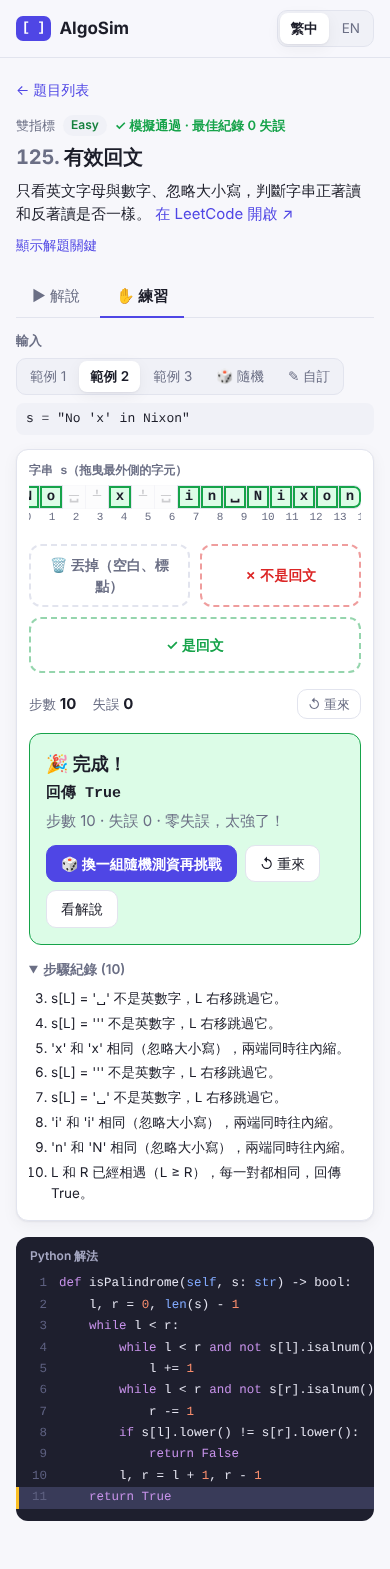
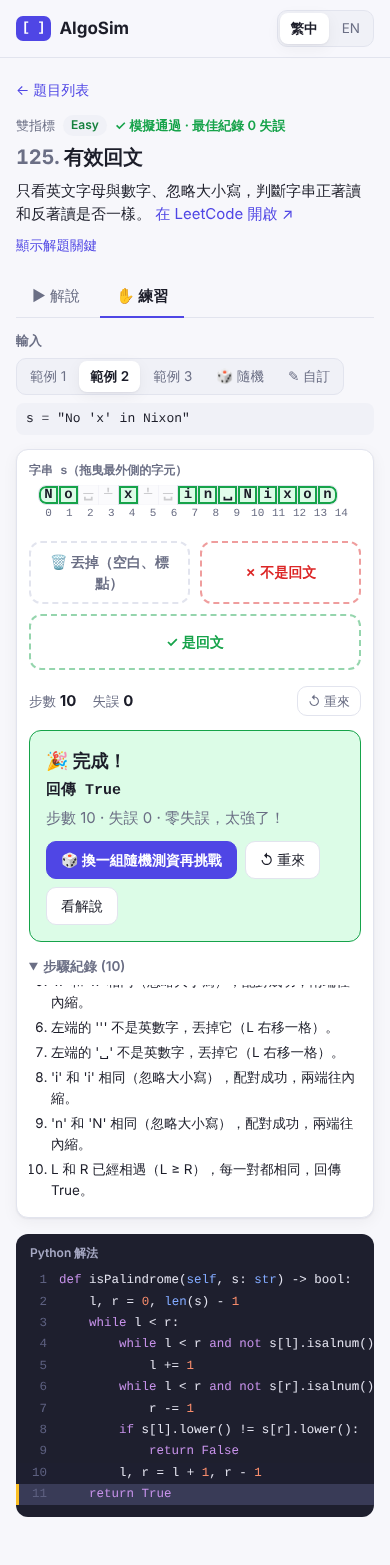
Stack category fully drag & drop: Valid Parentheses and Evaluate RPN
- Stack items can be drop targets (pair a closing bracket with the top)
- RPN operators split into two pops (b then a) via a formula box,
  so operand order is practiced explicitly
- Zones render at the bottom of the scene

Claude-Session: https://claude.ai/code/session_018DHoHmKFiQXG2SpKSffU6C

diff --git a/src/problems/evalRPN.ts b/src/problems/evalRPN.ts
@@ -1,9 +1,10 @@
 import { pick, randInt } from '../core/engine';
-import { L, type Problem } from '../core/types';
+import { L, TAP, type CellMark, type Layer, type Problem } from '../core/types';
 import { err, isObj } from './helpers';
 
 type I = { tokens: string[] };
-type S = { tokens: string[]; i: number; stack: number[]; done: boolean };
+/** b = right operand (popped first), a = left operand (popped second). */
+type S = { tokens: string[]; i: number; stack: number[]; done: boolean; b: number | null };
 
 const OPS = ['+', '-', '*', '/'];
 const isOp = (t: string) => OPS.includes(t);
@@ -34,8 +35,6 @@ function genTree(depth: number): Node {
   return { op, l, r };
 }
 
-/** Stack top first: b = top, a = second. */
-const operands = (stack: number[]) => ({ a: stack[stack.length - 2], b: stack[stack.length - 1] });
 
 export const evalRPN: Problem<I, S> = {
   id: 'evaluate-reverse-polish-notation',
@@ -90,78 +89,137 @@ export const evalRPN: Problem<I, S> = {
   },
   formatInput: (i) => `tokens = [${i.tokens.map((t) => JSON.stringify(t)).join(', ')}]`,
 
-  init: ({ tokens }) => ({ tokens, i: 0, stack: [], done: false }),
+  init: ({ tokens }) => ({ tokens, i: 0, stack: [], done: false, b: null }),
   isDone: (st) => st.done,
   options: () => [
     { id: 'push', label: L('數字放進堆疊（push）', 'Push the number') },
-    { id: 'compute', label: L('彈出兩個，算「次頂 ○ 頂端」', 'Pop two, compute second ○ top') },
-    { id: 'computeRev', label: L('彈出兩個，算「頂端 ○ 次頂」', 'Pop two, compute top ○ second') },
-    { id: 'return', label: L('回傳堆疊中的結果', 'Return the result') },
+    { id: 'takeB', label: L('pop 頂端 → 右邊的 b', 'Pop top → right operand b') },
+    { id: 'takeA', label: L('pop 頂端 → 左邊的 a，計算', 'Pop top → left operand a, compute') },
+    { id: 'return', label: L('回傳結果', 'Return the result') },
   ],
-  correct({ tokens, i, stack }) {
+  correct({ tokens, i, b }) {
     if (i >= tokens.length) return ['return'];
-    const t = tokens[i];
-    if (!isOp(t)) return ['push'];
-    const { a, b } = operands(stack);
-    return calc(a, t, b) === calc(b, t, a) ? ['compute', 'computeRev'] : ['compute'];
+    if (!isOp(tokens[i])) return ['push'];
+    return b === null ? ['takeB'] : ['takeA'];
   },
   apply(st, act) {
     const t = st.tokens[st.i];
     if (act === 'push') return { ...st, stack: [...st.stack, parseInt(t, 10)], i: st.i + 1 };
     if (act === 'return') return { ...st, done: true };
-    const { a, b } = operands(st.stack);
-    const v = act === 'compute' ? calc(a, t, b) : calc(b, t, a);
-    return { ...st, stack: [...st.stack.slice(0, -2), v], i: st.i + 1 };
+    const top = st.stack[st.stack.length - 1];
+    const rest = st.stack.slice(0, -1);
+    if (act === 'takeB') return { ...st, stack: rest, b: top };
+    return { ...st, stack: [...rest, calc(top, t, st.b!)], b: null, i: st.i + 1 };
   },
-  explain({ tokens, i, stack }, act) {
+  explain({ tokens, i, stack, b }, act) {
     const t = tokens[i];
+    const top = stack[stack.length - 1];
     if (act === 'push') return L(`'${t}' 是數字，放進堆疊。`, `'${t}' is a number. Push it.`);
     if (act === 'return')
       return L(`所有 token 都處理完了，堆疊裡只剩 ${stack[0]}，就是答案。`, `All tokens are processed. Only ${stack[0]} is left on the stack, and that's the answer.`);
-    const { a, b } = operands(stack);
+    if (act === 'takeB')
+      return L(`遇到 '${t}'：先 pop 出頂端的 ${top}，它是右邊的運算元 b。`, `Operator '${t}': the first pop gives ${top}, the right operand b.`);
     return L(
-      `遇到 '${t}'：先彈出 b = ${b}（頂端），再彈出 a = ${a}，算 ${a} ${t} ${b} = ${calc(a, t, b)}，放回堆疊。`,
-      `Operator '${t}': pop b = ${b} (top), then a = ${a}. Compute ${a} ${t} ${b} = ${calc(a, t, b)} and push it.`,
+      `再 pop 出 ${top}，它是左邊的運算元 a。計算 ${top} ${t} ${b} = ${calc(top, t, b!)}，結果放回堆疊。`,
+      `The second pop gives ${top}, the left operand a. Compute ${top} ${t} ${b} = ${calc(top, t, b!)} and push the result.`,
     );
   },
-  whyWrong({ tokens, i, stack }, act) {
+  whyWrong({ tokens, i, b }, act) {
     if (i >= tokens.length) return L('所有 token 都處理完了。', 'All tokens have been processed.');
     const t = tokens[i];
     if (act === 'return') return L('還有 token 沒處理。', 'There are still tokens left.');
     if (!isOp(t)) return L(`'${t}' 是數字，直接放進堆疊。`, `'${t}' is a number. Just push it.`);
     if (act === 'push') return L(`'${t}' 是運算子，不是數字。`, `'${t}' is an operator, not a number.`);
-    const { a, b } = operands(stack);
-    return L(
-      `順序反了！先彈出的 ${b} 是右邊的運算元。應該是 ${a} ${t} ${b} = ${calc(a, t, b)}，不是 ${b} ${t} ${a}。`,
-      `Wrong order! The first pop (${b}) is the right operand. It is ${a} ${t} ${b} = ${calc(a, t, b)}, not ${b} ${t} ${a}.`,
-    );
+    if (act === 'takeA') return L('先 pop 出來的是右邊的 b，要先放 b。', 'The first pop is the right operand b. Fill b first.');
+    return L(`b 已經是 ${b} 了，這次 pop 出來的是左邊的 a。`, `b is already ${b}; this pop is the left operand a.`);
   },
-  hints: ({ tokens, i, stack }) => [
+  hints: ({ tokens, i, stack, b }) => [
     i >= tokens.length
       ? L('token 都處理完了嗎？', 'Have all tokens been processed?')
-      : L(`現在的 token '${tokens[i]}' 是數字還是運算子？`, `Is the current token '${tokens[i]}' a number or an operator?`),
-    L(
-      '遇到運算子時：先彈出的是右邊的運算元，例如 [5, 2] 遇到 - 是 5 - 2。',
-      'For an operator, the first pop is the right operand: [5, 2] with - means 5 - 2.',
-    ),
-    L(`堆疊：[${stack.join(', ')}]`, `Stack: [${stack.join(', ')}]`),
+      : isOp(tokens[i])
+        ? L('遇到運算子：先 pop 出來的是右邊的 b，再 pop 出來的是左邊的 a。例如 [5, 2] 遇到 - 是 5 - 2。', 'For an operator, the first pop is the right operand b, the second is the left operand a: [5, 2] with - means 5 - 2.')
+        : L(`現在的 token '${tokens[i]}' 是數字還是運算子？`, `Is the current token '${tokens[i]}' a number or an operator?`),
+    b !== null
+      ? L(`b = ${b} 已經放好，堆疊頂端是 ${stack[stack.length - 1]}。`, `b = ${b} is set; the stack top is ${stack[stack.length - 1]}.`)
+      : L(`堆疊：[${stack.join(', ')}]`, `Stack: [${stack.join(', ')}]`),
   ],
-  scene({ tokens, i, stack, done }) {
-    const marks: Record<number, 'focus' | 'done'> = {};
+  scene({ tokens, i, stack, done, b }): Layer[] {
+    const marks: Record<number, CellMark> = {};
     for (let k = 0; k < Math.min(i, tokens.length); k++) marks[k] = 'done';
     if (i < tokens.length) marks[i] = 'focus';
+    const op = i < tokens.length && isOp(tokens[i]) ? tokens[i] : null;
+    const live = tokens.map((t, k) => !done && k >= i && !isOp(t));
     return [
-      { kind: 'array', id: 'tokens', label: L('tokens', 'tokens'), values: tokens, pointers: [{ name: 'i', index: i, color: 'a' }], marks },
-      { kind: 'stack', id: 'stack', label: L('stack', 'stack'), items: stack },
+      { kind: 'array', id: 'tokens', label: L('tokens（由左往右處理）', 'tokens (left to right)'), values: tokens, pointers: done ? [] : [{ name: 'i', index: i, color: 'a' }], marks, dragPrefix: 't', dragMask: live },
       {
-        kind: 'vars',
-        id: 'v',
-        vars: [
-          { name: 'c', value: i < tokens.length ? tokens[i] : '—', highlight: true },
-          { name: 'return', value: done ? stack[0] : '—' },
-        ],
+        kind: 'stack',
+        id: 'stack',
+        label: L('stack', 'stack'),
+        items: stack,
+        dragPrefix: done ? undefined : 'k',
+        dropId: done ? undefined : 'stack',
+      },
+      ...(op
+        ? [
+            {
+              kind: 'array',
+              id: 'calc',
+              label: L('運算：a ○ b（把 stack 頂端拖進空格）', 'Compute a ○ b (drag the stack top into a slot)'),
+              values: ['a', op, b === null ? 'b' : b],
+              dropPrefix: 'slot',
+              dropMask: [true, false, true],
+              marks: (b !== null ? { 1: 'focus', 2: 'good' } : { 1: 'focus' }) as Record<number, CellMark>,
+            } satisfies Layer,
+          ]
+        : []),
+      {
+        kind: 'zones',
+        id: 'zones',
+        zones: [{ id: 'ans', label: L('✓ 這就是答案', "✓ That's the answer"), tone: 'good' }],
       },
     ];
+  },
+  drag: {
+    instructions: L(
+      '數字拖進 stack。遇到運算子時，把 stack 頂端依序拖進算式的空格，系統會算好放回去。全部處理完，把最後的數拖到 ✓（或直接點 ✓）。',
+      'Drag numbers into the stack. For an operator, drag the stack top into the formula slots one at a time; the result is pushed back for you. At the end, drag the last number to ✓ (or tap ✓).',
+    ),
+    tapZones: ['ans'],
+    moves({ tokens, i, stack, b }) {
+      const top = `k:${stack.length - 1}`;
+      if (i >= tokens.length) return [{ action: 'return', from: top, to: 'ans' }, { action: 'return', from: TAP, to: 'ans' }];
+      if (!isOp(tokens[i])) return [{ action: 'push', from: `t:${i}`, to: 'stack' }];
+      return b === null ? [{ action: 'takeB', from: top, to: 'slot:2' }] : [{ action: 'takeA', from: top, to: 'slot:0' }];
+    },
+    whyWrong({ tokens, i, stack, b }, from, to) {
+      const n = tokens.length;
+      const t = tokens[i];
+      const top = stack[stack.length - 1];
+      if (i >= n) {
+        if (from.startsWith('k:') && Number(from.split(':')[1]) !== stack.length - 1) return L('只能拿 stack 最上面那一塊。', 'You can only take the top of the stack.');
+        return L('所有 token 都處理完了，把最後的數拖到 ✓。', 'All tokens are processed. Drag the last number to ✓.');
+      }
+      if (to === 'ans') return L('還有 token 沒處理，還不是答案。', "Tokens remain, so it isn't the answer yet.");
+      if (from === TAP) return L('還有 token 沒處理。', 'There are still tokens left.');
+      const [kind, idxS] = from.split(':');
+      const k = Number(idxS);
+      if (kind === 't') {
+        if (k > i) return L(`還沒輪到 '${tokens[k]}'，由左往右處理，現在是 '${t}'。`, `It's not '${tokens[k]}'s turn. Go left to right; the current token is '${t}'.`);
+        if (isOp(t)) return L(`現在要處理運算子 '${t}'：把 stack 頂端拖進算式的空格。`, `Handle the operator '${t}' now: drag the stack top into the formula.`);
+        return L(`'${t}' 是數字，拖進 stack。`, `'${t}' is a number. Drag it into the stack.`);
+      }
+      // stack item
+      if (k !== stack.length - 1) return L('只能拿 stack 最上面那一塊。', 'You can only take the top of the stack.');
+      if (!isOp(t)) return L(`現在的 '${t}' 是數字，先把它放進 stack。`, `The current token '${t}' is a number. Push it first.`);
+      if (to === 'stack') return L('它已經在 stack 裡了，要拖進算式的空格。', "It's already in the stack. Drag it into a formula slot.");
+      if (to === 'slot:0' && b === null)
+        return L(
+          `先 pop 出來的 ${top} 是右邊的 b，要放右邊的空格。例如 [5, 2] 遇到 - 是 5 - 2，不是 2 - 5。`,
+          `The first pop (${top}) is the right operand b, so it goes in the right slot. [5, 2] with - means 5 - 2, not 2 - 5.`,
+        );
+      if (to === 'slot:2' && b !== null) return L(`b 已經是 ${b} 了，這次 pop 出來的 ${top} 是左邊的 a。`, `b is already ${b}; this pop (${top}) is the left operand a.`);
+      return L('拖進算式的空格。', 'Drag it into a formula slot.');
+    },
   },
   result: (st) => L(`結果 = ${st.stack[0]}`, `Result = ${st.stack[0]}`),
   code: `def evalRPN(self, tokens: List[str]) -> int:
@@ -176,7 +234,7 @@ export const evalRPN: Problem<I, S> = {
         else:
             stack.append(int(c))
     return stack[0]`,
-  lineOf: { init: 2, compute: 5, computeRev: 5, push: 11, return: 12 },
+  lineOf: { init: 2, takeB: 5, takeA: 5, push: 11, return: 12 },
   answer: (st) => st.stack[0],
   verify({ tokens }, ans) {
     // Independent check: rebuild the expression tree from the right, then evaluate recursively.

diff --git a/src/problems/validParentheses.ts b/src/problems/validParentheses.ts
@@ -1,5 +1,5 @@
 import { pick, randInt } from '../core/engine';
-import { L, type Problem } from '../core/types';
+import { L, TAP, type CellMark, type Problem } from '../core/types';
 import { err, isObj } from './helpers';
 
 type I = { s: string };
@@ -111,28 +111,113 @@ export const validParentheses: Problem<I, S> = {
     L(`堆疊頂端：${stack.length ? `'${stack[stack.length - 1]}'` : '（空）'}`, `Stack top: ${stack.length ? `'${stack[stack.length - 1]}'` : '(empty)'}`),
   ],
   scene({ s, i, stack, done, result }) {
-    const marks: Record<number, 'good' | 'bad' | 'focus' | 'done'> = {};
-    for (let k = 0; k < Math.min(i, s.length); k++) marks[k] = 'done';
+    const marks: Record<number, CellMark> = {};
+    for (let k = 0; k < Math.min(i, s.length); k++) marks[k] = isOpen(s[k]) ? 'done' : 'good';
     if (i < s.length) marks[i] = done && result === false ? 'bad' : 'focus';
+    const live = [...s].map((_, k) => !done && k >= i);
     return [
       {
         kind: 'array',
         id: 's',
-        label: L('字串 s', 'string s'),
+        label: L('字串 s（由左往右處理）', 'string s (left to right)'),
         values: [...s],
-        pointers: [{ name: 'i', index: i, color: 'a' }],
+        pointers: done ? [] : [{ name: 'i', index: i, color: 'a' }],
         marks,
+        dragPrefix: 'c',
+        dropPrefix: 'c',
+        dragMask: live,
+        dropMask: live,
       },
-      { kind: 'stack', id: 'stack', label: L('stack', 'stack'), items: stack },
       {
-        kind: 'vars',
-        id: 'v',
-        vars: [
-          { name: 'c', value: i < s.length ? s[i] : '—', highlight: true },
-          { name: 'return', value: result === null ? '—' : result ? 'True' : 'False' },
+        kind: 'stack',
+        id: 'stack',
+        label: L('stack（還在等配對的左括號）', 'stack (opening brackets waiting for a match)'),
+        items: stack,
+        dragPrefix: done ? undefined : 'k',
+        dropId: done ? undefined : 'stack',
+        itemDropPrefix: done ? undefined : 'k',
+      },
+      {
+        kind: 'zones',
+        id: 'zones',
+        zones: [
+          { id: 'no', label: L('✗ 無效', '✗ Invalid'), tone: 'bad' },
+          { id: 'yes', label: L('✓ 有效', '✓ Valid'), tone: 'good' },
         ],
       },
     ];
+  },
+  drag: {
+    instructions: L(
+      '由左往右處理：左括號拖進 stack；右括號拖到 stack 頂端那塊上面配對。配不起來就拖進 ✗。全部處理完，點 ✓ 或 ✗。',
+      'Go left to right: drag opening brackets into the stack; drag a closing bracket onto the top of the stack to pair it. If it cannot pair, drag it into ✗. When the string is done, tap ✓ or ✗.',
+    ),
+    tapZones: ['yes', 'no'],
+    moves({ s, i, stack }) {
+      const topPos = stack.length - 1;
+      if (i >= s.length) {
+        if (stack.length === 0) return [{ action: 'true', from: TAP, to: 'yes' }];
+        return [
+          { action: 'false', from: TAP, to: 'no' },
+          { action: 'false', from: `k:${topPos}`, to: 'no' },
+        ];
+      }
+      const c = s[i];
+      if (isOpen(c)) return [{ action: 'push', from: `c:${i}`, to: 'stack' }, ...stack.map((_, j) => ({ action: 'push', from: `c:${i}`, to: `k:${j}` }))];
+      if (stack.length > 0 && stack[topPos] === PAIR[c])
+        return [
+          { action: 'pop', from: `c:${i}`, to: `k:${topPos}` },
+          { action: 'pop', from: `k:${topPos}`, to: `c:${i}` },
+        ];
+      return [
+        { action: 'false', from: `c:${i}`, to: 'no' },
+        { action: 'false', from: TAP, to: 'no' },
+      ];
+    },
+    whyWrong({ s, i, stack }, from, to) {
+      const n = s.length;
+      const topPos = stack.length - 1;
+      const top = stack[topPos];
+      const q = (x: string) => `'${x}'`;
+      if (i >= n) {
+        if (to === 'yes') return L(`stack 裡還剩 ${stack.length} 個沒配對的左括號，所以無效。`, `${stack.length} unmatched opening bracket(s) remain, so it's invalid.`);
+        if (to === 'no') return L('stack 是空的，每個括號都配對成功了。', 'The stack is empty; every bracket was matched.');
+        return L('字串已經處理完了，點 ✓ 或 ✗ 下結論。', 'The string is done. Tap ✓ or ✗ to conclude.');
+      }
+      const c = s[i];
+      const ok = stack.length > 0 && top === PAIR[c];
+      if (from === TAP) {
+        if (to === 'yes') return L('字串還沒處理完。', 'The string is not finished yet.');
+        return isOpen(c)
+          ? L(`還沒發現問題：${q(c)} 是左括號，放進 stack 就好。`, `No problem yet: ${q(c)} is an opening bracket; just push it.`)
+          : L(`還沒發現問題：${q(c)} 可以和頂端的 ${q(top)} 配對。`, `No problem yet: ${q(c)} pairs with ${q(top)} on top.`);
+      }
+      const [kind, idxS] = from.split(':');
+      const k = Number(idxS);
+      if (kind === 'c') {
+        if (k > i) return L(`還沒輪到 ${q(s[k])}。由左往右一個一個處理，現在是 ${q(c)}。`, `It's not ${q(s[k])}'s turn. Go left to right; the current one is ${q(c)}.`);
+        if (to === 'yes') return L('字串還沒處理完。', 'The string is not finished yet.');
+        if (to.startsWith('c:')) return L('要拖到 stack，不是拖到字串裡。', 'Drag it to the stack, not into the string.');
+        if (isOpen(c))
+          return L(`${q(c)} 是左括號，放進 stack 等之後的右括號來配對。`, `${q(c)} is an opening bracket. Push it so a later closing bracket can pair with it.`);
+        // closing bracket
+        if (to === 'no') return L(`${q(c)} 和頂端的 ${q(top)} 剛好是一對，把它拖到頂端上配對。`, `${q(c)} matches ${q(top)} on top. Drag it onto the top to pair.`);
+        if (stack.length === 0)
+          return L(`${q(c)} 是右括號，但 stack 是空的，沒有左括號可以配對，這代表無效。`, `${q(c)} is a closing bracket, but the stack is empty. Nothing can pair with it, which means invalid.`);
+        if (to === 'stack') return L(`右括號不放進 stack，要拖到頂端的 ${q(top)} 上面比對。`, `Closing brackets don't go on the stack. Drag it onto the top ${q(top)} to compare.`);
+        const j = Number(to.split(':')[1]);
+        if (j !== topPos) return L(`只能和 stack 最上面的 ${q(top)} 配對。`, `It can only pair with ${q(top)} on top of the stack.`);
+        return ok ? L('', '') : L(`${q(c)} 和頂端的 ${q(top)} 不是一對，這代表無效。`, `${q(c)} doesn't match ${q(top)} on top, which means invalid.`);
+      }
+      // dragging a stack item
+      if (k !== topPos) return L('只能拿 stack 最上面那一塊。', 'You can only take the top of the stack.');
+      if (to === 'stack' || to.startsWith('k:')) return L('它已經在 stack 裡了。', "It's already in the stack.");
+      if (to === 'no' || to === 'yes') return L('字串還沒處理完。', 'The string is not finished yet.');
+      const j = Number(to.split(':')[1]);
+      if (j !== i) return L(`要和現在處理的 ${q(c)} 配對。`, `Pair it with the current character ${q(c)}.`);
+      if (isOpen(c)) return L(`${q(c)} 是左括號，要放進 stack，不是拿來配對。`, `${q(c)} is an opening bracket. Push it; it isn't a closing partner.`);
+      return L(`頂端的 ${q(top)} 和 ${q(c)} 不是一對，這代表無效。把 ${q(c)} 拖進 ✗。`, `${q(top)} doesn't match ${q(c)}, which means invalid. Drag ${q(c)} into ✗.`);
+    },
   },
   result: (st) => L(`回傳 ${st.result ? 'True' : 'False'}`, `Returned ${st.result ? 'True' : 'False'}`),
   code: `def isValid(self, s: str) -> bool:

diff --git a/src/components/Scene.tsx b/src/components/Scene.tsx
@@ -104,11 +104,12 @@ function Cell({ cls, dragId, dropId, label, children }: { cls: string; dragId?: 
   );
 }
 
-function StackItem({ v, sub, top, dragId }: { v: string | number; sub?: string; top: boolean; dragId?: string }) {
+function StackItem({ v, sub, top, dragId, dropId }: { v: string | number; sub?: string; top: boolean; dragId?: string; dropId?: string }) {
   const { t } = useLang();
   const d = useDraggable(dragId, String(v));
+  const z = useDroppable(dropId);
   return (
-    <div className={['stack-item', top ? 'stack-top' : '', d.className].filter(Boolean).join(' ')} {...d.attrs}>
+    <div className={['stack-item', top ? 'stack-top' : '', d.className, z.className].filter(Boolean).join(' ')} {...d.attrs} {...z.attrs}>
       <span>
         {v}
         {sub && <small>{sub}</small>}
@@ -134,6 +135,7 @@ function StackView({ layer }: { layer: StackLayer }) {
             sub={layer.itemSub ? t(layer.itemSub[i]) : undefined}
             top={i === n - 1}
             dragId={layer.dragPrefix ? `${layer.dragPrefix}:${i}` : undefined}
+            dropId={layer.itemDropPrefix ? `${layer.itemDropPrefix}:${i}` : undefined}
           />
         ))}
       </div>
@@ -200,9 +202,6 @@ export function Scene({ layers }: { layers: Layer[] }) {
       {arrays.map((l) => (
         <ArrayView key={l.id} layer={l} />
       ))}
-      {zones.map((l) => (
-        <ZonesView key={l.id} layer={l} />
-      ))}
       {side.length > 0 && (
         <div className="scene-side">
           {side.map((l) =>
@@ -216,6 +215,9 @@ export function Scene({ layers }: { layers: Layer[] }) {
           )}
         </div>
       )}
+      {zones.map((l) => (
+        <ZonesView key={l.id} layer={l} />
+      ))}
     </div>
   );
 }

diff --git a/src/core/engine.ts b/src/core/engine.ts
@@ -91,6 +91,7 @@ export function dragIds(layers: Layer[]): { drags: string[]; drops: string[] } {
     } else if (l.kind === 'stack') {
       if (l.dragPrefix) l.items.forEach((_, i) => drags.push(`${l.dragPrefix}:${i}`));
       if (l.dropId) drops.push(l.dropId);
+      if (l.itemDropPrefix) l.items.forEach((_, i) => drops.push(`${l.itemDropPrefix}:${i}`));
     } else if (l.kind === 'zones') {
       for (const z of l.zones) drops.push(z.id);
     }

diff --git a/src/core/types.ts b/src/core/types.ts
@@ -74,6 +74,8 @@ export interface StackLayer {
   dragPrefix?: string;
   /** The whole stack is a drop target with this id. */
   dropId?: string;
+  /** Each item is also a drop target as `${itemDropPrefix}:${index}` (e.g. to pair with the top). */
+  itemDropPrefix?: string;
 }
 
 export interface SetLayer {
